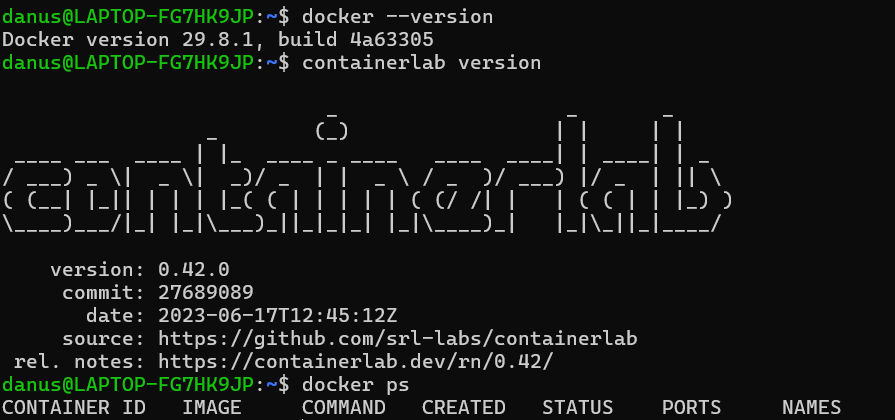
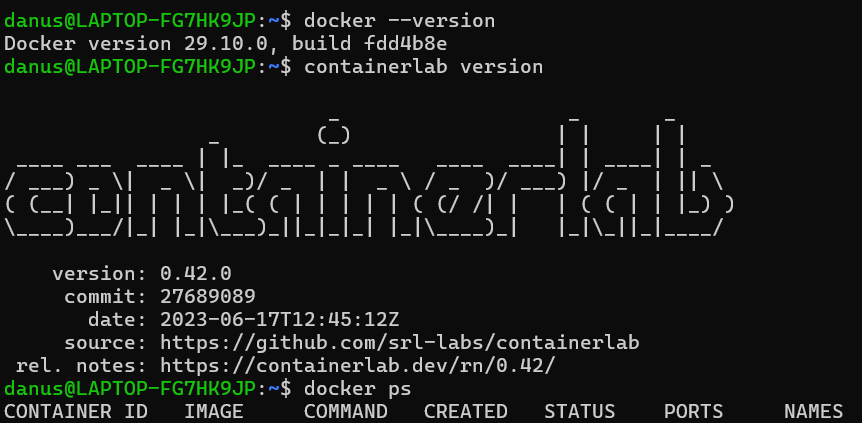
tahap 1 diulang: docker engine native

diff --git a/DEVIASI.md b/DEVIASI.md
@@ -1,0 +1,7 @@
+| Item | Paper/M7 | Yang dipakai | Alasan |
+|---|---|---|---|
+| SR Linux image | 23.2.2 | 23.3.1 | tag 23.2.2 tidak tersedia di ghcr.io/nokia/srlinux (pull: not found) |
+| gNMIc | 2.3.0 | 0.31.4 | kemungkinan salah ketik di paper |
+| Docker | 20.10.21 | Docker Engine terbaru di dalam WSL Ubuntu | Docker Desktop tidak kompatibel dengan Containerlab di WSL (deploy gagal: Link not found); 20.10.21 tidak tersedia di Ubuntu ini |
+| Docker min-api-version | default | 1.24 (daemon.json) | agar Containerlab 0.42.0 terhubung ke Docker baru |
+| Spesifikasi host (Tahap 2, 3, 6) | VM VirtualBox 8 GB RAM, 4 core, Linux Mint 20.2 | WSL2 Ubuntu, batas memori 5 GB, swap 8 GB (laptop 8 GB) | RAM laptop terbatas; dipakai hanya untuk tahap membangun, Tahap 7 di mesin sesuai spesifikasi paper |
